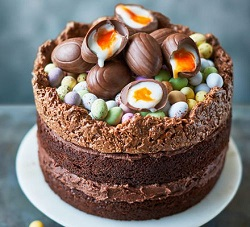
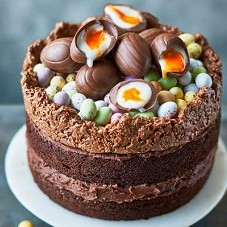
UI Updated

diff --git a/web/WEB-INF/styles/mainmenu.css b/web/WEB-INF/styles/mainmenu.css
@@ -12,3 +12,7 @@
     opacity: 0.5;
 }
 
+img, .card-img-top{
+    height: 100%; 
+    object-fit: contain;
+}
